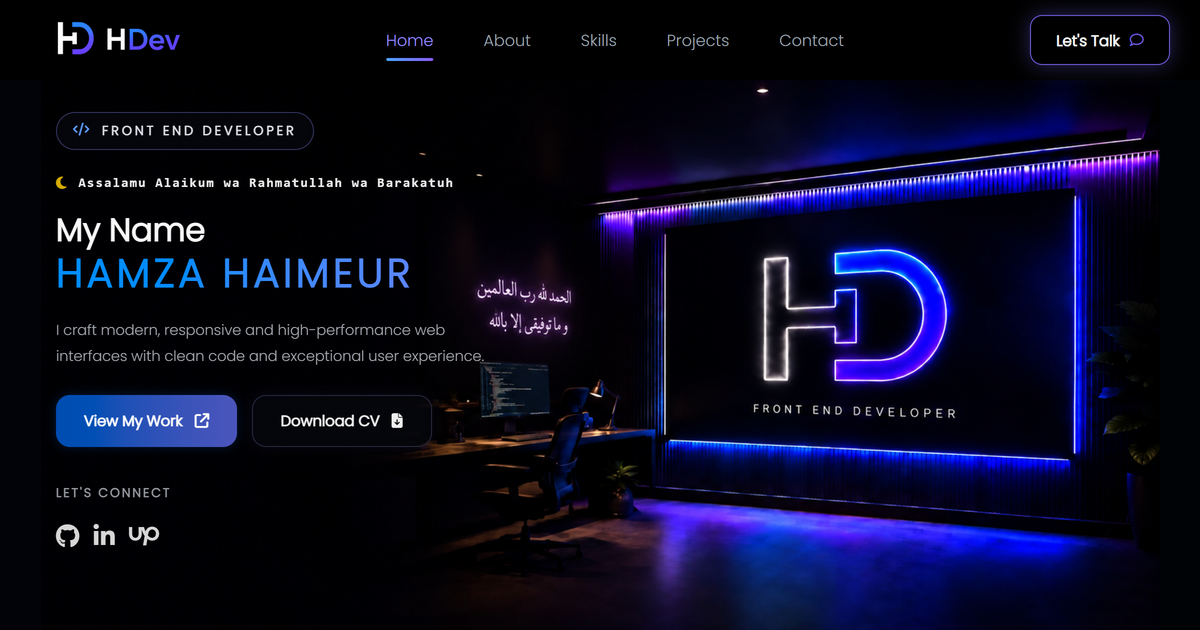
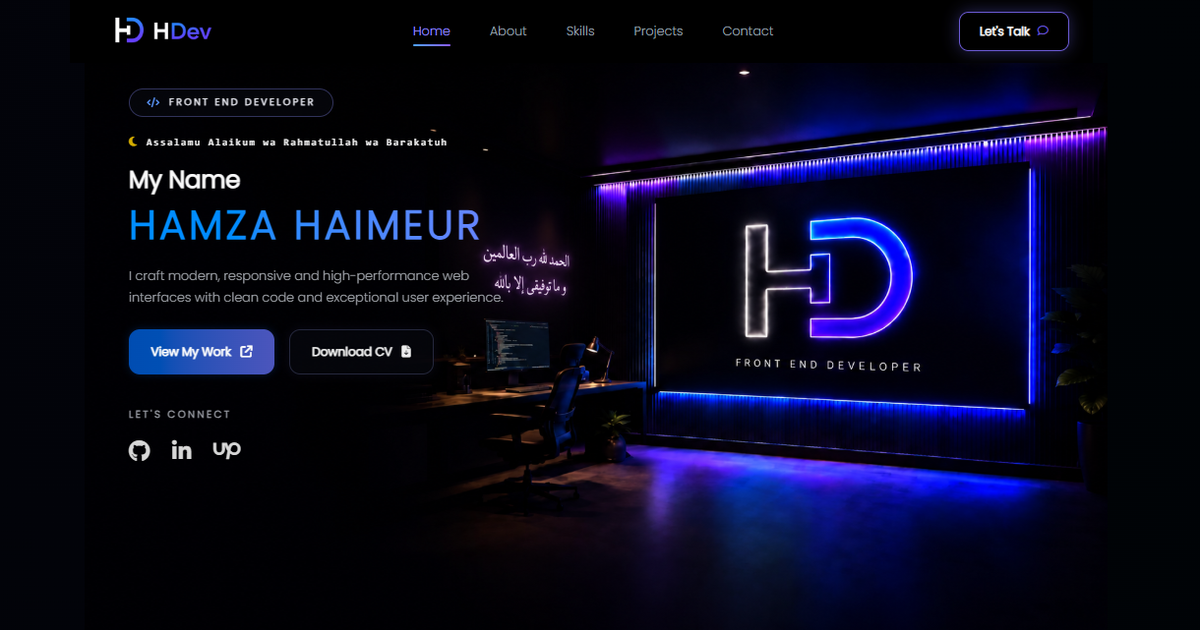
modifie preview.png

diff --git a/index.html b/index.html
@@ -34,7 +34,7 @@
   >
   <meta
     property="og:image"
-    content="https://hamzahaimeur.vercel.app/assets/preview-v2.png"
+    content="https://hamzahaimeur.vercel.app/assets/preview.png"
   >
   <meta
     property="og:image:width"
@@ -66,12 +66,19 @@
   >
   <meta
     name="twitter:image"
-    content="https://hamzahaimeur.vercel.app/assets/preview-v2.png"
+    content="https://hamzahaimeur.vercel.app/assets/preview.png"
   >
   <meta
     name="twitter:image:alt"
     content="Hamza Haimeur Front-End Developer Portfolio Preview"
   >
+  <link rel="icon" type="image/x-icon" href="assets/brand/favicon.ico">
+  <link rel="icon" type="image/png" sizes="16x16" href="assets/brand/favicon-16x16.png">
+  <link rel="icon" type="image/png" sizes="32x32" href="assets/brand/favicon-32x32.png">
+  <link rel="icon" type="image/png" sizes="48x48" href="assets/brand/favicon-48x48.png">
+  <link rel="apple-touch-icon" sizes="180x180" href="assets/brand/apple-touch-icon.png">
+  <link rel="icon" type="image/png" sizes="192x192" href="assets/brand/android-chrome-192x192.png">
+  <link rel="icon" type="image/png" sizes="512x512" href="assets/brand/android-chrome-512x512.png">
   <link rel="icon" type="image/png" href="/assets/brand/brand-2.png">
   <link rel="stylesheet" href="css/main.css">
   <link
